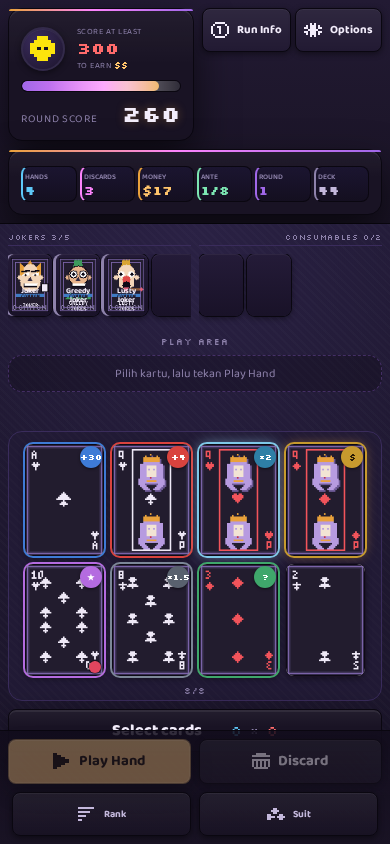
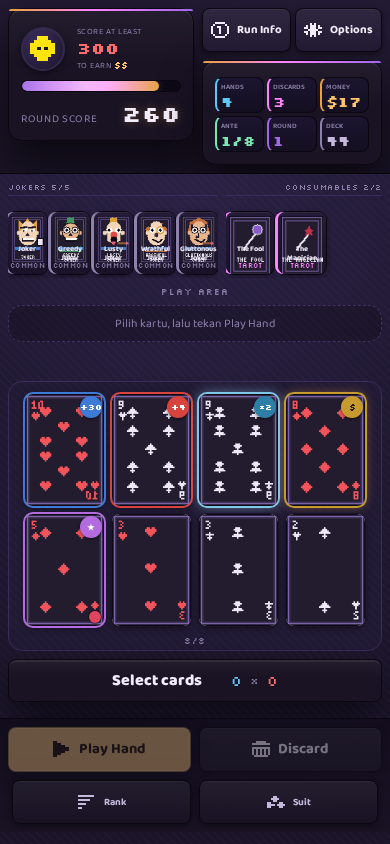
Baki Joker tidak lagi meluap, dan statistik pindah sejajar baris skor
BAKI JOKER YANG SALING MENUTUPI
Penyebabnya terukur: ubin Joker berlebar tetap 44px, sehingga lima Joker
memerlukan 236px di dalam baki selebar 183px. Bakinya meluap 53px ke kanan dan
menabrak kolom Konsumabel - itulah yang terlihat saling menutupi. Sekarang
ubinnya membagi lebar bakinya (flex 1 1 0 dengan batas atas 48px), dan kolom
Joker diberi porsi lebih lebar karena isinya sampai lima sedangkan Konsumabel
hanya dua.

Sebelum: 5 Joker 44px, meluap 53px, baki bertabrakan.
Sesudah: 390px -> ubin 39px, luap 0; 360px -> 34px, luap 0;
         320px -> 30px, luap 0; 430px -> 43px, luap 0. Tidak ada yang bertabrakan.

STATISTIK SEJAJAR BARIS SKOR
Panel statistik tidak lagi menjadi baris tersendiri selebar layar. Panel blind
membentang dua baris di kiri, tombol di kanan atas, dan statistik di kanan
bawahnya sehingga berada di sisi yang sama dengan baris skor.
Catatan jujur: bagian bawah statistik masih ~30-75px lebih rendah daripada baris
skor karena di bawah skor masih ada bilah kemajuan. Kalau ingin benar-benar
rata, bilah kemajuannya yang harus dipindah atau disembunyikan.

DUA KESALAHAN SAYA SENDIRI YANG KETEMU SAAT MENGUKUR
1. Aturan `.tray-label` yang saya tulis untuk memangkas layar pendek TIDAK
   MERUJUK ELEMEN APA PUN - nama sebenarnya `.strip-label`. Itu sebabnya
   pangkasan yang saya janjikan tidak mengurangi gulir sedikit pun.
2. Aturan tata letak ponsel yang saya taruh di dalam blok media ditimpa oleh
[…]

diff --git a/css/deckstorm.css b/css/deckstorm.css
@@ -1187,9 +1187,15 @@ a:hover { color: var(--emas); border-bottom-color: var(--emas); }
     align-items: start; gap: var(--s2);
     padding: var(--s2); overflow-x: visible;
   }
-  .sidebar .blind-panel { grid-column: 1; grid-row: 1; }
+  .sidebar .blind-panel { grid-column: 1; grid-row: 1 / span 2; }
   .sidebar .hud-buttons { grid-column: 2; grid-row: 1; justify-self: end; align-self: start; }
-  .sidebar .stats-panel { grid-column: 1 / -1; grid-row: 2; }
+  /* Statistik diletakkan SEJAJAR dengan baris skor di panel blind, bukan
+     sebagai baris tersendiri selebar layar. */
+  .sidebar .stats-panel {
+    grid-column: 2; grid-row: 2; align-self: end;
+    grid-template-columns: repeat(3, minmax(0, 1fr)); gap: 3px;
+  }
+  .sidebar .stats-panel .stat-box { padding: 3px var(--s1); }
   .sidebar .boss-banner { grid-column: 1 / -1; grid-row: 3; }
   .sidebar .hud-logo { display: none; }
   .blind-panel { flex: 0 0 auto; }
@@ -1202,9 +1208,7 @@ a:hover { color: var(--emas); border-bottom-color: var(--emas); }
   .score-bar { height: 12px; }
   .round-score-row { flex-direction: row; justify-content: space-between; align-items: baseline; }
   .round-score-row b { font-size: 1.35rem; }
-  /* Enam kolom satu baris: hemat ~60px tinggi. Label dikecilkan tetapi angkanya
-     tetap besar supaya Hands dan Discards tetap terbaca sekilas. */
-  .stats-panel { grid-template-columns: repeat(6, minmax(0, 1fr)); gap: 3px; }
+  .stats-panel { gap: 3px; }
   .stat-box { padding: 3px var(--s1); border-left-width: 2px; }
   .stat-box b { font-size: .92rem; }
   .stat-box span { font-size: .46rem; letter-spacing: 0; }
@@ -1223,9 +1227,17 @@ a:hover { color: var(--emas); border-bottom-color: var(--emas); }
      baris memakan 204px tinggi - seperempat layar 844px - dan mendorong tombol
      aksi keluar layar. */
   .strips-row { grid-template-columns: repeat(2, minmax(0, 1fr)); gap: var(--s2); }
-  .joker-strip .jokers { gap: var(--s1); }
-  .joker-strip .joker { width: 44px; height: 62px; }
-  .joker-strip .joker .tile-name { font-size: .48rem; }
+  /* Joker dan Konsumabel BERDAMPINGAN, dan ubinnya membagi lebar bakinya.
+     Sebelumnya ubin berlebar tetap 44px, sehingga lima Joker memerlukan 236px
+     di dalam baki selebar 183px: bakinya meluap 53px ke kanan dan menabrak
+     kolom Konsumabel - itulah yang terlihat saling menutupi. Kolom Joker
+     diberi porsi lebih lebar karena isinya sampai lima, Konsumabel hanya dua. */
+  .strips-row { grid-template-columns: minmax(0, 1.35fr) minmax(0, 1fr); }
+  .joker-strip #jokers, .joker-strip #consumables {
+    display: flex; flex-wrap: nowrap; gap: 4px; justify-content: flex-start;
+  }
+  .joker-strip .joker { flex: 1 1 0; min-width: 0; max-width: 46px; height: 62px; }
+  .joker-strip .joker .tile-name { font-size: .46rem; }
   .jokers { flex-wrap: nowrap; overflow-x: auto; padding-bottom: var(--s1); }
   .jokers .joker { flex: 0 0 auto; }
   .strip-label .hint { display: none; }
@@ -1290,7 +1302,7 @@ a:hover { color: var(--emas); border-bottom-color: var(--emas); }
   .hand-zone { padding: var(--s2) var(--s2) 0; }
   .hand { min-height: calc(var(--kartu-h) + 6px); }
   .played-zone { min-height: calc(var(--kartu-h) + 2px); padding: var(--s1); }
-  .tray-label { display: none; }
+  .strip-label { display: none; }
   .preview-panel { padding: 2px var(--s3); font-size: .84rem; }
   .sidebar { padding: var(--s2); gap: var(--s2); }
   .stat-box { padding: 3px 2px; }
@@ -1335,7 +1347,7 @@ a:hover { color: var(--emas); border-bottom-color: var(--emas); }
      jelas dari gambarnya. Menghapusnya memangkas ~22px lagi, dan itulah sisa
      terakhir yang membuat tombol aksi berada di bawah layar pada 320x568,
      740x360, dan 667x375. */
-  .tray-label { display: none; }
+  .strip-label { display: none; }
   .felt-table { padding-top: var(--s1); }
   .preview-panel { padding: 2px var(--s2); }
   .joker-strip { min-height: 0; }
@@ -1453,3 +1465,35 @@ a:hover { color: var(--emas); border-bottom-color: var(--emas); }
   background-repeat: no-repeat;
 }
 .set-sel:hover { border-color: var(--garis-2); background-color: var(--panel-3); }
+
+/* ── Perbaikan tata letak ponsel, sengaja diletakkan PALING AKHIR ──
+   Aturan di blok media sebelumnya ditimpa oleh aturan lain yang muncul
+   belakangan di berkas ini (spesifisitasnya sama, jadi yang belakangan menang).
+   Dua hal ini karena itu ditulis di sini supaya pasti berlaku:
+   1. Ubin Joker dan Konsumabel membagi lebar bakinya. Dengan lebar tetap,
+      lima Joker memerlukan 236px di dalam baki 183px sehingga bakinya meluap
+      dan menabrak kolom sebelahnya - itu yang terlihat saling menutupi.
+   2. Panel statistik disejajarkan dengan baris skor, bukan sebagai baris
+      tersendiri selebar layar. */
+@media (max-width: 780px) {
+  .strips-row { grid-template-columns: minmax(0, 1.35fr) minmax(0, 1fr); }
+  .joker-strip #jokers, .joker-strip #consumables {
+    display: flex; flex-wrap: nowrap; gap: 4px;
+    justify-content: flex-start; align-items: flex-end;
+  }
+  .joker-strip #jokers > .joker, .joker-strip #consumables > .joker {
+    flex: 1 1 0; width: auto; min-width: 0; max-width: 48px; height: 62px;
+  }
+  .joker-strip #jokers > .joker .tile-name,
+  .joker-strip #consumables > .joker .tile-name { font-size: .46rem; }
+
+  .sidebar .blind-panel { grid-column: 1; grid-row: 1 / span 2; }
+  .sidebar .hud-buttons { grid-column: 2; grid-row: 1; }
+  .sidebar .stats-panel {
+    grid-column: 2; grid-row: 2; align-self: end; margin-top: 0;
+    display: grid; grid-template-columns: repeat(3, minmax(0, 1fr)); gap: 3px;
+  }
+  .sidebar .stats-panel .stat-box { padding: 3px var(--s1); border-left-width: 2px; }
+  .sidebar .stats-panel .stat-box b { font-size: .86rem; }
+  .sidebar .stats-panel .stat-box span { font-size: .44rem; letter-spacing: 0; }
+}

diff --git a/index.html b/index.html
@@ -5,11 +5,11 @@
 <meta name="viewport" content="width=device-width, initial-scale=1.0">
 <title>Deckstorm — Poker Roguelike</title>
 <meta name="description" content="Deckstorm: a poker roguelike deckbuilder. Beat the blinds, build your jokers, survive 8 antes.">
-<link rel="icon" type="image/svg+xml" href="assets/favicon.svg?v=20261023-33">
+<link rel="icon" type="image/svg+xml" href="assets/favicon.svg?v=20261023-36">
 <link rel="preconnect" href="https://fonts.googleapis.com">
 <link rel="preconnect" href="https://fonts.gstatic.com" crossorigin>
 <link href="https://fonts.googleapis.com/css2?family=Baloo+2:wght@400;500;600;700;800&family=Nunito:wght@400;600;700;800&family=Press+Start+2P&family=Silkscreen:wght@400;700&display=swap" rel="stylesheet">
-<link rel="stylesheet" href="css/deckstorm.css?v=20261023-33">
+<link rel="stylesheet" href="css/deckstorm.css?v=20261023-36">
 </head>
 <body>
 <div id="fx-layer" aria-hidden="true"></div>
@@ -332,19 +332,19 @@
   </div>
 </div>
 
-<script src="js/debug.js?v=20261023-33"></script>
-<script src="js/cards.js?v=20261023-33"></script>
-<script src="js/jokers.js?v=20261023-33"></script>
+<script src="js/debug.js?v=20261023-36"></script>
+<script src="js/cards.js?v=20261023-36"></script>
+<script src="js/jokers.js?v=20261023-36"></script>
 <script src="js/data/jokers-pool.js?v=20261014-1"></script>
-<script src="js/consumables.js?v=20261023-33"></script>
-<script src="js/pixelart.js?v=20261023-33"></script>
-<script src="js/audio.js?v=20261023-33"></script>
+<script src="js/consumables.js?v=20261023-36"></script>
+<script src="js/pixelart.js?v=20261023-36"></script>
+<script src="js/audio.js?v=20261023-36"></script>
 <script src="js/data/jokers.js?v=20261014-1"></script>
 <script src="js/data/joker-effects.js?v=20261014-1"></script>
 <script src="js/efek.js?v=20261014-1"></script>
-<script src="js/data/decks.js?v=20261023-33"></script>
-<script src="js/data/challenges.js?v=20261023-33"></script>
-<script src="js/data/stakes.js?v=20261023-33"></script>
-<script src="js/game.js?v=20261023-33"></script>
+<script src="js/data/decks.js?v=20261023-36"></script>
+<script src="js/data/challenges.js?v=20261023-36"></script>
+<script src="js/data/stakes.js?v=20261023-36"></script>
+<script src="js/game.js?v=20261023-36"></script>
 </body>
 </html>
